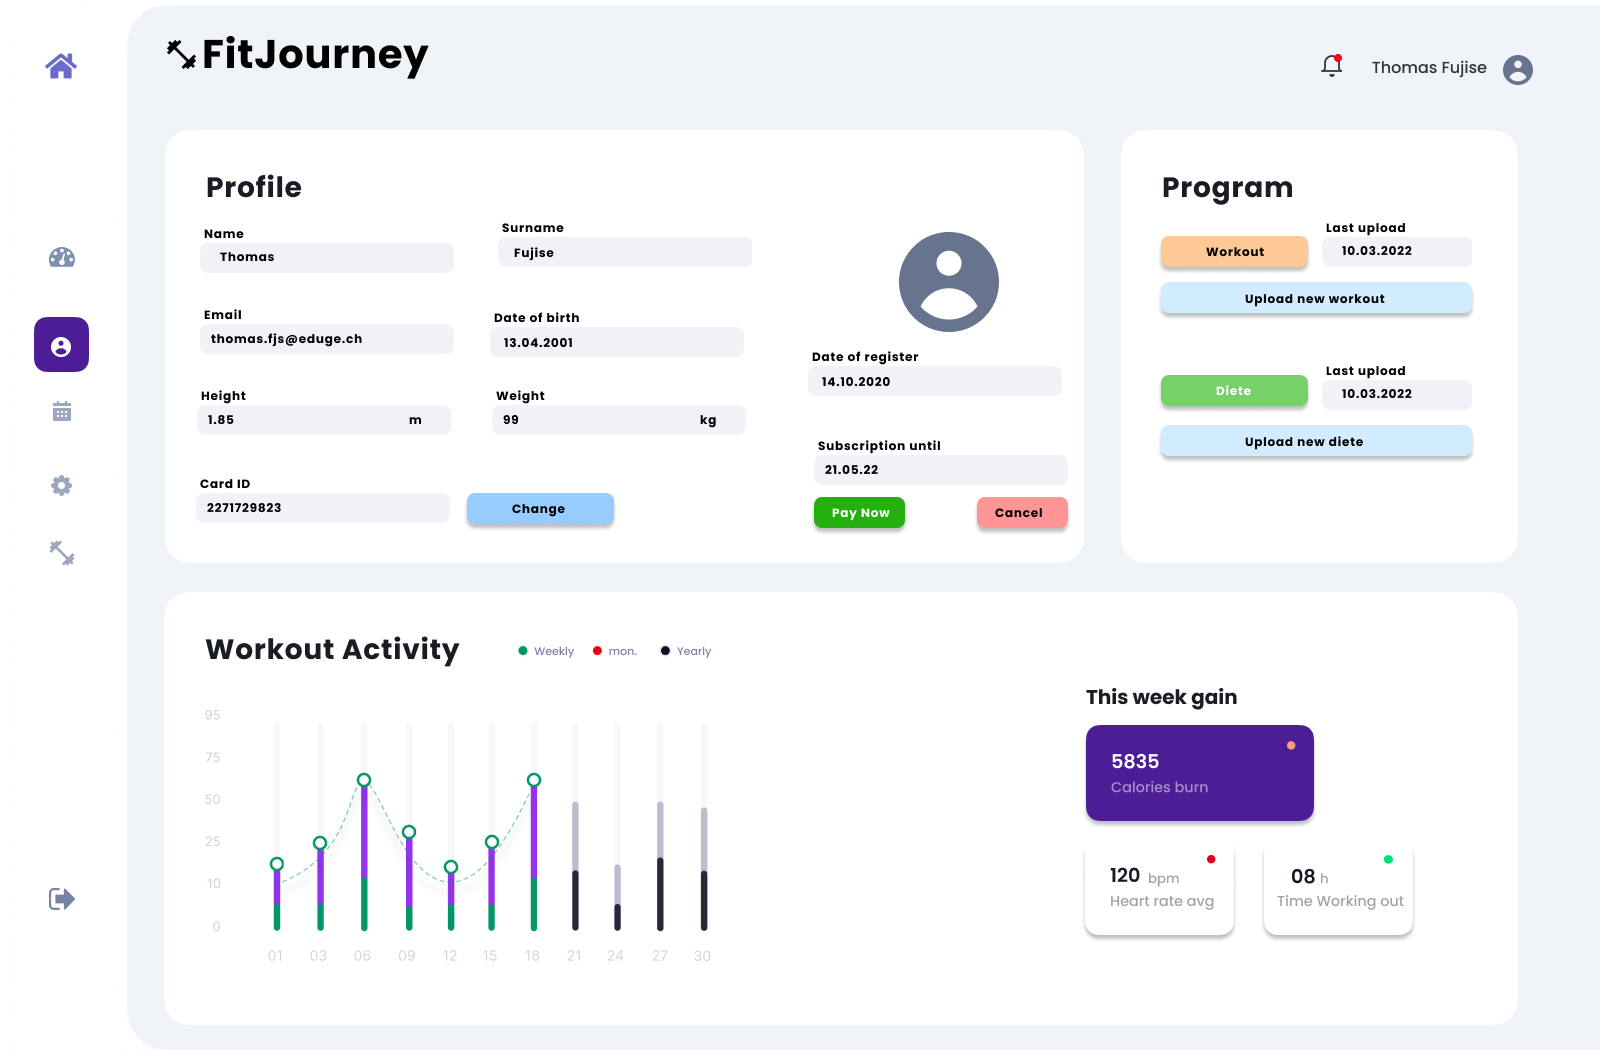
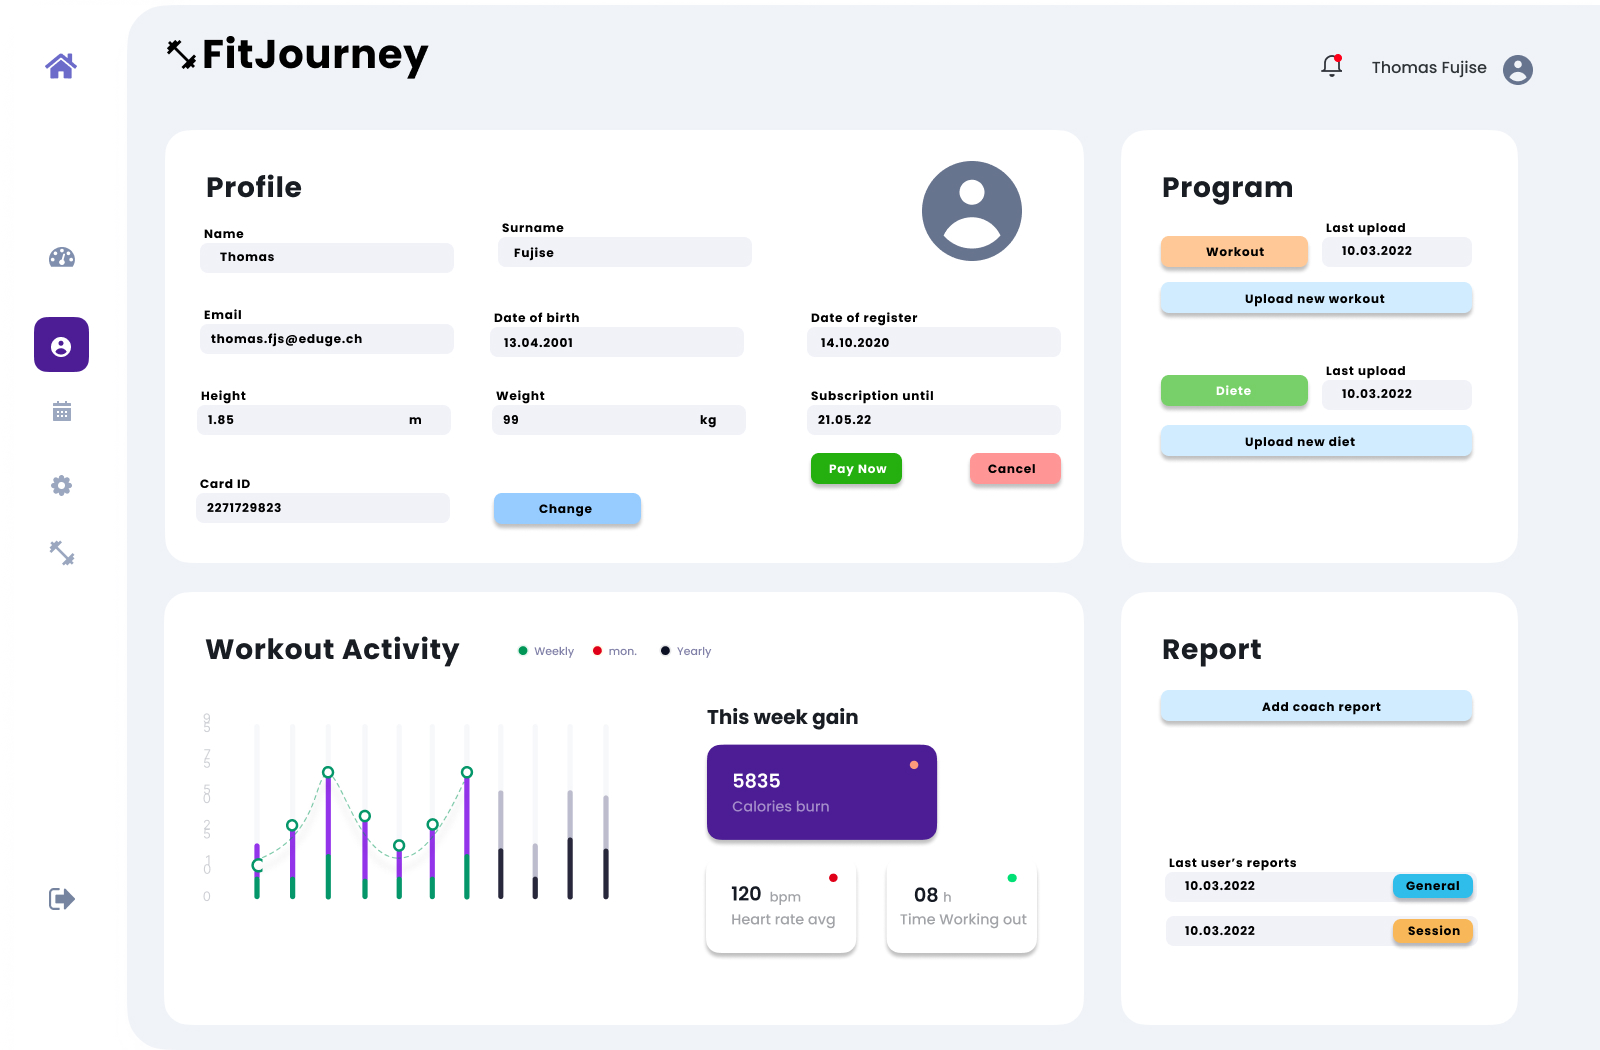
Updating interface mockup (Adding report)

diff --git a/docs/documentation.md b/docs/documentation.md
@@ -40,14 +40,20 @@ L'application FitJourney propose 3 niveaux d'accès :
 Lorsqu'on arrive sur l'application sans être authentifié, seuls 3 pages sont accessibles. 
 ##### Page d'accueil
 ![Home Page](./mockups/Interface_mockups/home.jpg)
-La page d'accueil est très basique et propose les boutons permettant de s'enregistrer ou de se connecter.
-##### Page de connexion 
-![Login Page](./mockups/Interface_mockups/sign_in.jpg)
-La page de connexion permet aux utilisateurs de se connecter. Un lien est disponible si le mot de passe a été oublié.
+La page d'accueil est très basique et propose 2 boutons :
+
+* 1 bouton de connexion
+* 1 bouton pour s'enregistrer
 
 ##### Page d'enregistrement
 ![Register Page](./mockups/Interface_mockups/sign_up.jpg)
 La page d'enregistrement permet aux utilisateurs de s'enregistrer, une option est disponible pour permettre la création d'un nouveau compte coach. 
+
+##### Page de connexion 
+![Login Page](./mockups/Interface_mockups/sign_in.jpg)
+La page de connexion permet aux utilisateurs de se connecter. Un lien est disponible si le mot de passe a été oublié.
+
+
 
 #### En tant que client 
 Si on se connecte à l'application en tant que client, 4 pages supplémentaires sont disponibles.
@@ -55,17 +61,28 @@ Si on se connecte à l'application en tant que client, 4 pages supplémentaires 
 ##### Page profile
 ![Profile Page](./mockups/Interface_mockups/profile.jpg)
 
-La page profil permet au client de modifier ses informations personnelles. Il a également accès à des statistiques sur les données des entrainements qu'il a effectué cette semaine.
+La page profil permet au client de modifier ses informations personnelles. Plusieurs boutons sont disponibles : 
+
+* 1 bouton "Update" pour appliquer les modifications effectuées sur les informations du compte
+* 1 bouton pour modifier le mot de passe 
+* 1 bouton pour importer une photo de profil.
+
+ Il a également accès à des statistiques sur les données des entrainements qu'il a effectué cette semaine (En dessous des informations de son compte).
 
 ##### Page liste de nos entrainements
 ![List Workouts](./mockups/Interface_mockups/workouts_list.jpg)
 
-Cette page affiche la liste de toutes les entrainements effectués par le client. 
+Cette page affiche la liste de toutes les entrainements effectués par le client. L'utilisateur peut cliquer sur chaque élément de la liste pour avoir les détails de l'entrainement
 
 ##### Page détails entrainement
 ![Detail workout](./mockups/Interface_mockups/workout_details.jpg)
 
-Cette page affiche les détails d'un entrainement avec les données récupéré avec la smartwatch.
+Cette page affiche les détails d'un entrainement avec les données récupéré à l'aide de la smartwatch. On peut retrouver des informations comme : 
+
+* Le nombre de calories brûlées
+* Les pulsations cardiaques par minute avec un graphique montrant l'évolution durant l'entrainement
+* La durée de l'entrainement 
+* Le type d'entrainement
 
 ##### Page prochaine session
 ![Next session](./mockups/Interface_mockups/client_next_session.jpg)
@@ -76,34 +93,44 @@ Cette page affiche les prochaines sessions d'entrainements avec un coach du clie
 #### En tant que coach
 Si on se connecte à l'application en tant que coach, on a alors accès à 5 pages supplémentaire.
 
-##### Page profile client
-![Client profile](./mockups/Interface_mockups/profile_with_coach_option.jpg)
-
-La page profile client permet au coach de visionner le profil de ses clients. Des options supplémentaires sont disponibles :
-
-* Changement de la carte de membre
-* Renouvellement/Annulation de l'abonnement
-* Importation des programmes
-
 ##### Page tableau de bord
 ![Coach dashboard](./mockups/Interface_mockups/coach_dashboard.jpg)
 
-La page tableau de bord permet au coach de voir la liste des clients qu'ils dont il effectue le suivi. Il voit également la prochaine session avec un client.
-
-##### Page Calendrier
-![Coach calendar](./mockups/Interface_mockups/coach_calendar.jpg)
-
-La page calendrier permet au coach d'avoir accès à un calendrier pour visionner les rendez-vous déjà enregistrer et en ajouter de nouveau.
+La page tableau de bord permet au coach de voir la liste des clients dont il effectue le suivi. Le coach peut cliquer sur le nom d'un de ses clients pour afficher le profil du client concerné. Il a également accès à un bouton pour ajouter un nouveau client.
+Les informations de la prochaine session avec un client sont disponible en dessous de la liste des clients. 
 
 ##### Page Ajout de client 
 ![Coach Add Client](./mockups/Interface_mockups/add_client.jpg)
 
-La page ajout de client permet au coach d'effectuer la prise en charge d'un client. Le coach peut séléctionner un compte déjà existant (si le client en a déjà créé un) ou créer un nouveau compte client.
+La page ajout de client permet au coach d'effectuer la prise en charge d'un nouveau client. Le coach peut séléctionner un compte déjà existant (si le client en a déjà créé un) ou créer un nouveau compte client. Si le coach séléctionne un compte déjà existant les champs se remplisse automatiquement.
+
+##### Page profil client
+![Client profil](./mockups/Interface_mockups/profile_with_coach_option.jpg)
+
+La page profil client permet au coach de visionner le profil de ses clients. Plusieurs boutons supplémentaires sont disponibles :
+
+* 1 bouton pour le changement de la carte de membre
+* 1 bouton pour le renouvellement de l'abonnement
+* 1 bouton pour l'annulation de l'abonnement 
+* Importation des programmes
 
 ##### Page Paiement
 ![Coach payment](./mockups/Interface_mockups/payment.jpg)
 
-La page paiement permet de valider le paiement d'un client (Aucune transaction n'est effectué par l'application)
+La page paiement permet de valider le paiement d'un client (Aucune transaction n'est effectué par l'application). Le coach peut séléctionner le type d'abonnement que le client souhaite prendre, la date d'échéance du nouvel abonnement séléctionné ainsi que son coût seront affichés.
+
+##### Page Calendrier
+![Coach calendar](./mockups/Interface_mockups/coach_calendar.jpg)
+
+La page calendrier permet au coach d'avoir accès à un calendrier et de visionner les rendez-vous enregistré à la date séléctionné. Un bouton pour ajouter une nouvelle session avec un client est disponible. Le coach doit seulement renseigner :
+
+* Le nom du client (Liste déroulante parmis ses clients)
+* L'heure de la session
+* La durée
+* Le type de session 
+
+
+
 ### Sitemap
 
 ## Analyse Organique

diff --git a/docs/logbook.md b/docs/logbook.md
@@ -140,5 +140,32 @@ M.Jossi est passé pour l'évaluation intermédiaire. Globalement tout est ok, j
 * Modifier le MCD (Pas de flèches, revoir les cardinalitées, double relations pour coach/client)
 * Ajouter Installation pour le projet en général (pas seulement Python Flask)
 * Ajouter l'aborescence du dossier source (explication détaillé)
+* Revoir l'ordre des maquettes (ordre logique)
+* Explication des boutons sur les maquettes
+* Use case dans l'analyse fonctionnelle 
+* Schéma pour montrer comment l'application va intéragir avec l'API
 
 J'ai pu terminé la modification du MCD, je vais l'envoyer à M.Jossi pour qu'il puisse vérifier. Il faut maintenant que j'avance sur la documentation.
+
+### Jeudi, 28 Avril 2022
+J'ai commencé à revoir la description de mes maquettes. Je me suis rendu compte de quelques incohérence sur certaines maquettes comme sur le tableau de bord du coach, la prochaine session était affiché tout en bas de la page. Il était donc plus cohérent d'afficher cette information tout en haut et de mettre la liste de client en bas.
+
+J'ai également eu une réflexion sur les bilans. J'avais totalement oublié de penser au bilan qui est un élément essentiel du coaching. Je vais donc revoir les maquettes et je pourrai donc modifier le MCD quand je retournerai dessus plus tard.
+Je pense rajouter 2 "types" de bilan, un bilan *général* qui sert à évaluer le ressenti du client par rapport à sa prise en charge, le suivi de manière général. Le deuxième type de bilan serait un bilan par session (qui ne serait pas obligatoire, au début cela peut ne pas déranger mais si le client effectu beaucoup de séance cela peut vite devenir répétitif) où le client note son ressenti sur la séance. Pour le coach, un bilan est effectué de manière soit hebdomadaire, soit mensuelle pour enregistrer les nouvelles mesures (poids, mensu, chrono, cela dépend du type de coaching).
+
+Pour le bilan, les données que le coach devra renseigner à l'aide d'une balance connecté qui permets leurs acquisition sont : 
+
+* Poids
+* BMI (Body Mass Index / IMC)
+* Body Fat % 
+* Water % 
+* Mucle Mass % 
+* Bone Mass 
+* BMR
+* Fat Visceral
+* Lean Body Mass
+* Body Fat Mass
+* Muscle Mass
+* Protein
+* Body Age
+
